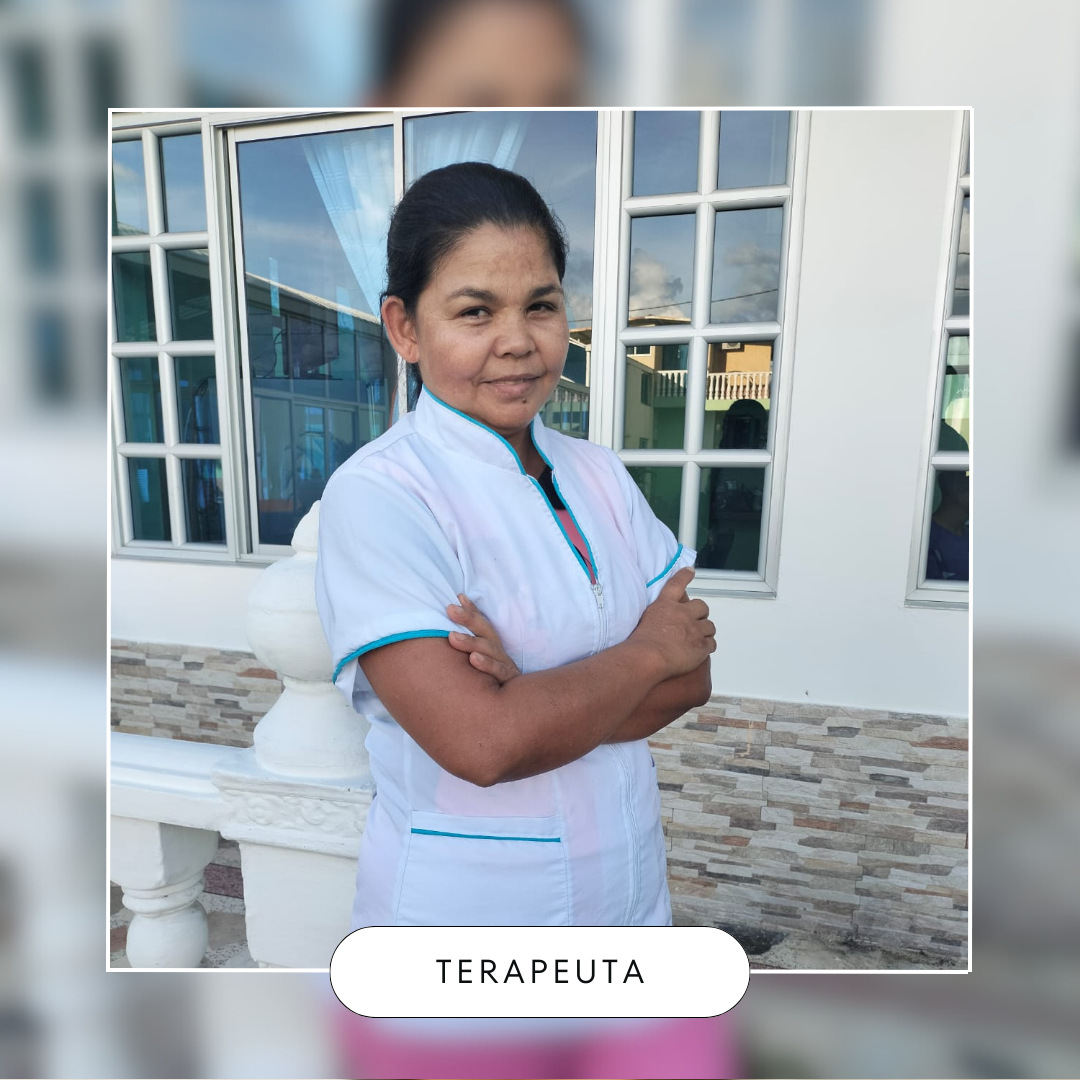
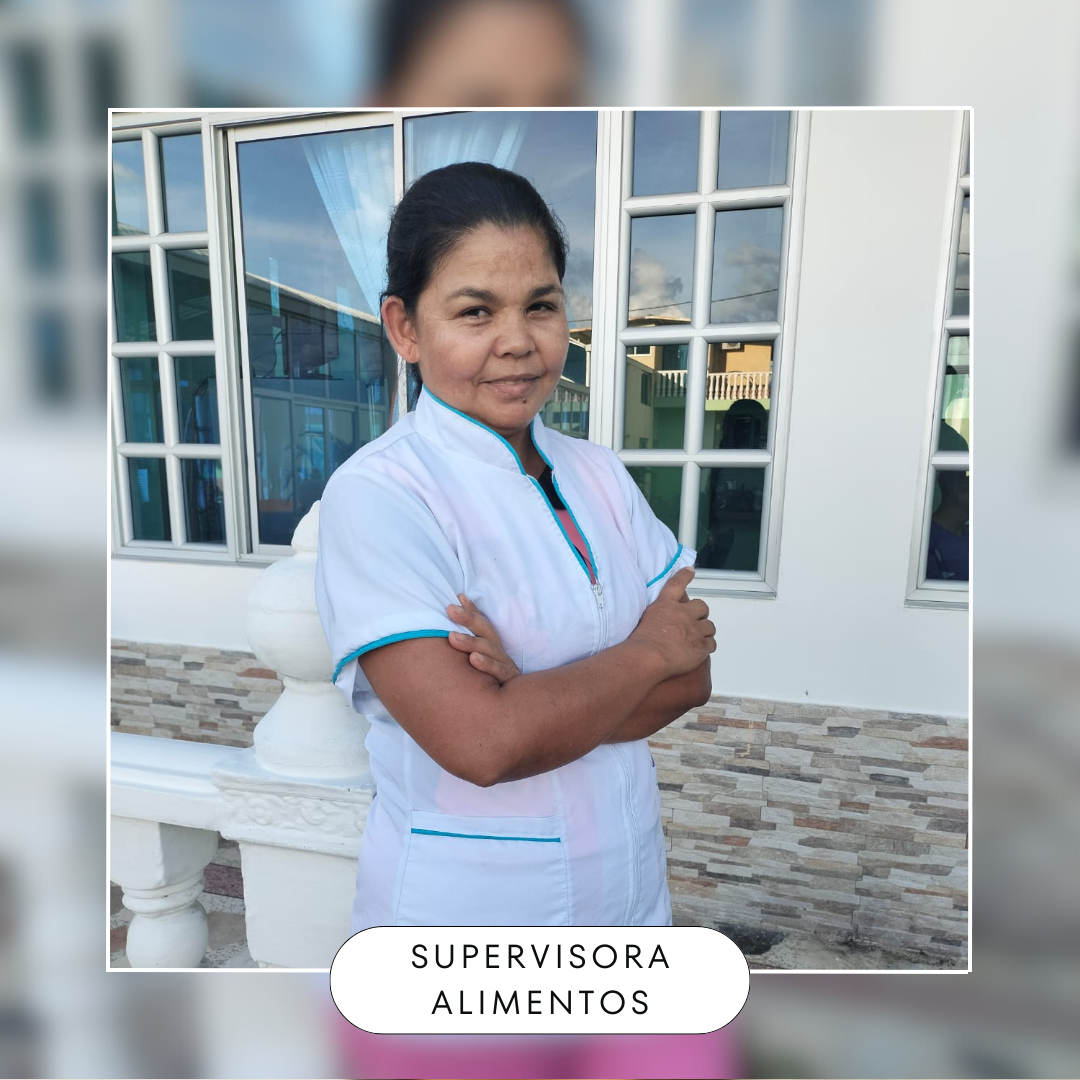
add team members

Changed region(s): [[0.3056, 0.8556, 0.7028, 0.9778], [0.6722, 0.8556, 0.7028, 0.8861], [0.3056, 0.8556, 0.3361, 0.8861]]

diff --git a/src/components/Team.jsx b/src/components/Team.jsx
@@ -1,105 +1,110 @@
+import React from "react";
 import { Container } from "react-bootstrap";
 import "../styles/team.css";
 
 const Team = () => {
+  const teamMembers = [
+    {
+      name: "Julio Cesar",
+      role: "Director",
+      expertise: "Terapeuta en adicciones",
+      experience: "15 años de experiencia",
+      image: "/team1.png",
+    },
+    {
+      name: "Jessica Medina",
+      role: "Psicologa",
+      expertise: "Licenciada en Psicología",
+      experience: "3 años de experiencia",
+      image: "/team2.png",
+    },
+    {
+      name: "Patricia Camacho",
+      role: "Supervisora alimentos",
+      expertise: "Licenciada en administración",
+      experience: "6 años de experiencia",
+      image: "/team3.png",
+    },
+    {
+      name: "Fawvel Martínez",
+      role: "Tutor SENA",
+      expertise: "Licenciada en educación",
+      experience: "6 años de experiencia",
+      image: "/team4.png",
+    },
+    {
+      name: "Guillermo varón",
+      role: "Facilitador terapéutico",
+      expertise: "Licenciada en educación",
+      experience: "4 años de experiencia",
+      image: "/team5.png",
+    },
+    {
+      name: "Elizabeth Daut",
+      role: "Terapeuta en adicciones",
+      expertise: "Licenciada en educación",
+      experience: "3 años de experiencia",
+      image: "/team6.png",
+    },
+    {
+      name: "Alejandro Rodríguez",
+      role: "Operador terapéutico",
+      expertise: "Licenciada en educación",
+      experience: "5 años de experiencia",
+      image: "/team7.png",
+    },
+    {
+      name: "Jhon Garcés",
+      role: "Secretario",
+      expertise: "Licenciada en educación",
+      experience: "2 años de experiencia",
+      image: "/team8.png",
+    },
+  ];
   const stats = [
     { number: "2000+", label: "Pacientes recuperados" },
     { number: "100+", label: "Clientes Activos" },
     { number: "99%", label: "Comentarios Positivos" },
     { number: "15", label: "Años de Experiencia" },
   ];
+
   return (
-    <>
-      <Container fluid>
-        <section className="section_team">
-          <div>
-            <h2
-              style={{
-                paddingBottom: "2rem",
-                textAlign: "center",
-              }}
-            >
-              Nuestro equipo
-            </h2>
-          </div>
-          <div className="team">
-            <div className="team_member">
-              <h3 className="member_name">Julio Cesar</h3>
+    <Container fluid>
+      <section className="section_team">
+        <h2 style={{ paddingBottom: "2rem", textAlign: "center" }}>
+          Nuestro equipo
+        </h2>
+        <div className="team">
+          {teamMembers.map((member, index) => (
+            <div key={index} className="team_member">
+              <h3 className="member_name">{member.name}</h3>
               <div className="member_image">
-                <img src="/team1.png" className="active" alt="Julio" />
+                <img src={member.image} className="active" alt={member.name} />
               </div>
               <div className="member_description">
                 <p>
-                  Director
+                  {member.role}
                   <br />
+                  {/* <br />
+                  {member.expertise}
+                  <br /> */}
                   <br />
-                  Terapeuta en adicciones <br />
-                  <br />
-                  15 años de experiencia
+                  {member.experience}
                 </p>
               </div>
-            </div>
-            <div className="team_member">
-              <h3 className="member_name">Maria Jimenez</h3>
-              <div className="member_image">
-                <img src="/team2.png" className="active" alt="Maria" />
-              </div>
-              <div className="member_description">
-                <p>
-                  Psicologa
-                  <br />
-                  <br />
-                  Licenciada en Psicologia <br />
-                  <br />
-                  25 años de experiencia
-                </p>
-              </div>
-            </div>
-            <div className="team_member">
-              <h3 className="member_name">Martha Gonzalez</h3>
-              <div className="member_image">
-                <img src="team3.png" className="active" alt="Martha" />
-              </div>
-              <div className="member_description">
-                <p>
-                  Terapeuta
-                  <br />
-                  <br />
-                  Licenciada en administración <br />
-                  <br />
-                  10 años de experiencia
-                </p>
-              </div>
-            </div>
-            <div className="team_member">
-              <h3 className="member_name">Sara Mendez</h3>
-              <div className="member_image">
-                <img src="team4.png" className="active" alt="Sara" />
-              </div>
-              <div className="member_description">
-                <p>
-                  Tutor
-                  <br />
-                  <br />
-                  Licenciada en educación
-                  <br />
-                  <br />
-                  17 años de experiencia
-                </p>
-              </div>
-            </div>
-          </div>
-        </section>
-        <div className="stats-grid">
-          {stats.map((stat, index) => (
-            <div key={index} className="stat-card">
-              <h3 className="stat-number">{stat.number}</h3>
-              <p className="stat-label">{stat.label}</p>
             </div>
           ))}
         </div>
-      </Container>
-    </>
+      </section>
+      <div className="stats-grid">
+        {stats.map((stat, index) => (
+          <div key={index} className="stat-card">
+            <h3 className="stat-number">{stat.number}</h3>
+            <p className="stat-label">{stat.label}</p>
+          </div>
+        ))}
+      </div>
+    </Container>
   );
 };
 

diff --git a/src/components/Testimonial.jsx b/src/components/Testimonial.jsx
@@ -70,7 +70,7 @@ const testimonialsData = [
     id: 1,
     videoUrl: "/testimonio1.mp4",
     name: "William Chaparro",
-    text: "Me han ayudado a conocerme a mi mismo a tener amor propio",
+    text: "   A través de talleres me han ayudado a conocer en cuanto al problema de las adicciones, he aprendido a tener amor propio",
   },
   {
     id: 2,
@@ -78,18 +78,18 @@ const testimonialsData = [
     name: "Willian Lazo",
     text: "Me han ayudado a conocer mas de Dios, y me han brindado ayudas con profesionales",
   },
-  {
-    id: 1,
-    videoUrl: "/testimonio1.mp4",
-    name: "Ana Martínez",
-    text: "Gracias a Julio, he encontrado un nuevo camino en mi vida. Su apoyo ha sido fundamental.",
-  },
-  {
-    id: 1,
-    videoUrl: "/testimonio1.mp4",
-    name: "Ana Martínez",
-    text: "Gracias a Julio, he encontrado un nuevo camino en mi vida. Su apoyo ha sido fundamental.",
-  },
+  // {
+  //   id: 1,
+  //   videoUrl: "/testimonio1.mp4",
+  //   name: "Ana Martínez",
+  //   text: "Gracias a Julio, he encontrado un nuevo camino en mi vida. Su apoyo ha sido fundamental.",
+  // },
+  // {
+  //   id: 1,
+  //   videoUrl: "/testimonio1.mp4",
+  //   name: "Ana Martínez",
+  //   text: "Gracias a Julio, he encontrado un nuevo camino en mi vida. Su apoyo ha sido fundamental.",
+  // },
   // Más testimonios...
 ];
 
@@ -98,7 +98,7 @@ const Testimonials = () => {
     dots: true,
     infinite: true,
     speed: 500,
-    slidesToShow: 3,
+    slidesToShow: 2,
     slidesToScroll: 1,
     responsive: [
       {

diff --git a/src/components/Navbar.jsx b/src/components/Navbar.jsx
@@ -1,7 +1,7 @@
 import React from "react";
 import { Link } from "react-router-dom";
 import { Navbar, Nav, NavDropdown, Container } from "react-bootstrap";
-import "bootstrap/dist/css/bootstrap.min.css"; // Importa los estilos de Bootstrap
+import "bootstrap/dist/css/bootstrap.min.css";
 
 const NavBar = () => {
   return (
@@ -12,7 +12,6 @@ const NavBar = () => {
       style={{ padding: "1rem 2rem" }}
     >
       <Container>
-        {/* Logo a la izquierda */}
         <Navbar.Brand as={Link} to="/">
           <img
             src="JC.svg"
@@ -20,19 +19,13 @@ const NavBar = () => {
             style={{ height: "40px", width: "auto" }}
           />
         </Navbar.Brand>
-
-        {/* Botón de toggler para pantallas pequeñas */}
         <Navbar.Toggle aria-controls="basic-navbar-nav" />
-
-        {/* Contenido del Navbar */}
         <Navbar.Collapse id="basic-navbar-nav" className="justify-content-end">
           <Nav>
-            {/* Dropdown a la derecha */}
             <NavDropdown title="Descubre" id="nav-dropdown" menuVariant="light">
               <NavDropdown.Item as={Link} to="/About">
                 Sobre Nosotros
               </NavDropdown.Item>
-
               <NavDropdown.Item as={Link} to="/services">
                 Servicios
               </NavDropdown.Item>

diff --git a/src/components/PromoBanner.jsx b/src/components/PromoBanner.jsx
@@ -6,8 +6,8 @@ const PromoBanner = () => {
     <div className="promo-banner">
       <div className="scrolling-text">
         <strong>
-          Somos centro para la restauracion de adicciones. Tenemos alianza con
-          la fundacion Lazos de amor.
+          Somos centro de rehabilitación para adictos a las drogas y el alcohol.
+          Tenemos alianza con la fundacion Lazos de amor.
         </strong>
       </div>
     </div>

diff --git a/src/pages/Home.jsx b/src/pages/Home.jsx
@@ -3,7 +3,6 @@ import ContentHome from "../components/ContentHome";
 import AboutUs from "../components/AboutUs";
 import Services from "../components/Services";
 import Testimonials from "../components/Testimonial";
-// import BlogPosts from "../components/BlogPosts";
 import Gallery from "../components/Gallery";
 import Blog from "../components/Blog";
 import ContactSection from "../components/ContactSection";

diff --git a/src/App.jsx b/src/App.jsx
@@ -64,7 +64,7 @@ function MainLayout({ children }) {
 // Floating WhatsApp logo
 function FloatingLogo() {
   const whatsappURL =
-    "https://wa.me/+573106942538?text=Hola!%20Estoy%20interesado%20en%20agendar%20una%20cita.";
+    "https://wa.me/+573103729344?text=Hola!%20Estoy%20interesado%20en%20agendar%20una%20cita.";
   return (
     <div
       className="floating-logo"

diff --git a/src/index.css b/src/index.css
@@ -48,9 +48,9 @@ img {
 }
 
 .navbar-light .navbar-nav .nav-link {
-  color: #333; /* Color de texto oscuro */
+  color: #333;
 }
 
 .navbar-light .nav-dropdown:hover {
-  background-color: #f1f1f1; /* Color de fondo al hacer hover */
+  background-color: #f1f1f1;
 }
